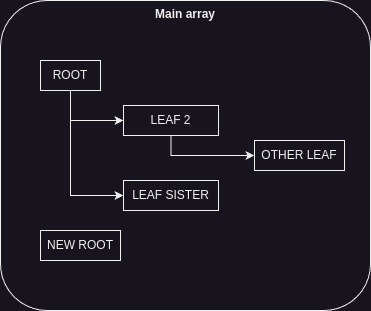
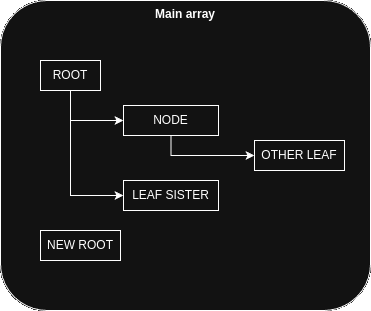
Minification

diff --git a/tests/index.test.js b/tests/index.test.js
@@ -1,10 +1,10 @@
-const { rowToTree } = require("../index");
+const { rowToTree } = require("../src/index");
 
 describe("rowToTree", () => {
   it("should convert an array of objects into a tree structure", () => {
     const data = [
       { id: 1, id_parent: null, name: "ROOT" },
-      { id: 2, id_parent: 1, name: "LEAF 2" },
+      { id: 2, id_parent: 1, name: "NODE" },
       { id: 4, id_parent: 1, name: "LEAF SISTER" },
       { id: 6, id_parent: 2, name: "OTHER LEAF" },
       { id: 5, id_parent: null, name: "NEW ROOT" },
@@ -19,7 +19,7 @@ describe("rowToTree", () => {
           {
             id: 2,
             id_parent: 1,
-            name: "LEAF 2",
+            name: "NODE",
             children: [
               {
                 id: 6,
@@ -51,7 +51,7 @@ describe("rowToTree", () => {
   it("should take into account all the options", () => {
     const data = [
       { ident: 1, idParent: null, name: "ROOT" },
-      { ident: 2, idParent: 1, name: "LEAF 2" },
+      { ident: 2, idParent: 1, name: "NODE" },
       { ident: 4, idParent: 1, name: "LEAF SISTER" },
       { ident: 6, idParent: 2, name: "OTHER LEAF" },
       { ident: 5, idParent: null, name: "NEW ROOT" },
@@ -66,7 +66,7 @@ describe("rowToTree", () => {
           {
             ident: 2,
             idParent: 1,
-            name: "LEAF 2",
+            name: "NODE",
             sons: [
               {
                 ident: 6,
@@ -104,7 +104,7 @@ describe("rowToTree", () => {
   it("should take into account partial options", () => {
     const data = [
       { id: 1, idParent: null, name: "ROOT" },
-      { id: 2, idParent: 1, name: "LEAF 2" },
+      { id: 2, idParent: 1, name: "NODE" },
       { id: 4, idParent: 1, name: "LEAF SISTER" },
       { id: 6, idParent: 2, name: "OTHER LEAF" },
       { id: 5, idParent: null, name: "NEW ROOT" },
@@ -119,7 +119,7 @@ describe("rowToTree", () => {
           {
             id: 2,
             idParent: 1,
-            name: "LEAF 2",
+            name: "NODE",
             sons: [
               {
                 id: 6,
@@ -156,7 +156,7 @@ describe("rowToTree", () => {
   it("should remove the children key if it's a leaf", () => {
     const data = [
       { id: 1, idParent: null, name: "ROOT" },
-      { id: 2, idParent: 1, name: "LEAF 2" },
+      { id: 2, idParent: 1, name: "NODE" },
       { id: 4, idParent: 1, name: "LEAF SISTER" },
       { id: 6, idParent: 2, name: "OTHER LEAF" },
       { id: 5, idParent: null, name: "NEW ROOT" },
@@ -171,7 +171,7 @@ describe("rowToTree", () => {
           {
             id: 2,
             idParent: 1,
-            name: "LEAF 2",
+            name: "NODE",
             sons: [
               {
                 id: 6,

diff --git a/dist/index.min.js b/dist/index.min.js
@@ -1,0 +1,1 @@
+function rowToTree(e,r={}){const n={idKey:"id",parentKey:"id_parent",childrenKey:"children",cleanEmptyChildren:!1,...r},c={},i=[];if(e.forEach((e=>{const r=e[n.idKey],l=e[n.parentKey];c[r]?Object.assign(c[r],e):c[r]={...e,[n.childrenKey]:[]};const d=c[r];null===l?i.push(d):(c[l]||(c[l]={[n.childrenKey]:[]}),c[l][n.childrenKey].push(d))})),n.cleanEmptyChildren){!function e(r){Array.isArray(r)?r.forEach(e):r[n.childrenKey]&&0===r[n.childrenKey].length?delete r[n.childrenKey]:r[n.childrenKey].forEach(e)}(i)}return i}module.exports={rowToTree:rowToTree};

diff --git a/docs/index.html b/docs/index.html
@@ -373,7 +373,7 @@
       function loadExampleData() {
         const data = [
           { id: 1, id_parent: null, name: "ROOT" },
-          { id: 2, id_parent: 1, name: "LEAF 2" },
+          { id: 2, id_parent: 1, name: "NODE" },
           { id: 4, id_parent: 1, name: "LEAF SISTER" },
           { id: 6, id_parent: 2, name: "OTHER LEAF" },
           { id: 5, id_parent: null, name: "NEW ROOT" },

diff --git a/README.md b/README.md
@@ -2,7 +2,7 @@
 
 <div align="center">
 
-<img src="./docs/images/logo_row-to-tree_transparent.png" style="height:15svh;">
+<img src="./docs/images/logo_row-to-tree_transparent.png" height="150">
 
 ![Version](https://img.shields.io/badge/version-2.2.0-blue)
 ![Test](https://img.shields.io/badge/test-passing-green)
@@ -12,7 +12,7 @@
 [![Version](https://img.shields.io/badge/try-me-yellow)](https://cesar-lizurey.github.io/row-to-tree/)
 
 <a href="https://www.npmjs.com/package/row-to-tree">
-  <img src="https://raw.githubusercontent.com/npm/logos/cc343d8c50139f645d165aedfe4d375240599fd1/npm%20logo/classic/npm-2009.svg?raw=true" style="height:5svh;">
+  <img src="https://raw.githubusercontent.com/npm/logos/cc343d8c50139f645d165aedfe4d375240599fd1/npm%20logo/classic/npm-2009.svg?raw=true" height="50">
 </a>
 
 </div>
@@ -27,7 +27,9 @@ When you make a SQL request, you often get an array of rows, each of them being 
 
 This module helps you convert the original array into an array of parents and child, building the expected tree:
 
-> ![Expected output][expectedOutput]
+<div align="center">
+<img src="./docs/images/diagram.png">
+</div>
 
 ## Example
 
@@ -36,7 +38,7 @@ The test file provides an example of what could be done. Suppose you have the fo
 | id  | id_parent |    name     |
 | :-: | :-------: | :---------: |
 |  1  |   null    |    ROOT     |
-|  2  |     1     |   LEAF 2    |
+|  2  |     1     |    NODE     |
 |  4  |     1     | LEAF SISTER |
 |  6  |     2     | OTHER LEAF  |
 |  5  |   null    |  NEW ROOT   |
@@ -58,7 +60,7 @@ const { rowToTree } = require("row-to-tree");
 
 const data = [
   { id: 1, id_parent: null, name: "ROOT" },
-  { id: 2, id_parent: 1, name: "LEAF 2" },
+  { id: 2, id_parent: 1, name: "NODE" },
   { id: 4, id_parent: 1, name: "LEAF SISTER" },
   { id: 6, id_parent: 2, name: "OTHER LEAF" },
   { id: 5, id_parent: null, name: "NEW ROOT" },
@@ -79,7 +81,7 @@ You will get this nested array:
       {
         id: 2,
         id_parent: 1,
-        name: "LEAF 2",
+        name: "NODE",
         children: [
           {
             id: 6,
@@ -252,5 +254,3 @@ Convert an array of objects into a tree structure: returns an array of root obje
 ## Licence
 
 MIT
-
-[expectedOutput]: ./docs/images/diagram.png "Expected output"

diff --git a/CHANGELOG.md b/CHANGELOG.md
@@ -1,3 +1,11 @@
+## Version 2.3.0
+
+Minified version.
+
+## Version 2.2.0
+
+Migration from `unpkg` to `jsdelivr`.
+
 ## Version 2.1.0
 
 You can now delete a `childrenKey` if the node has no child, that is to say the node is a leaf.
